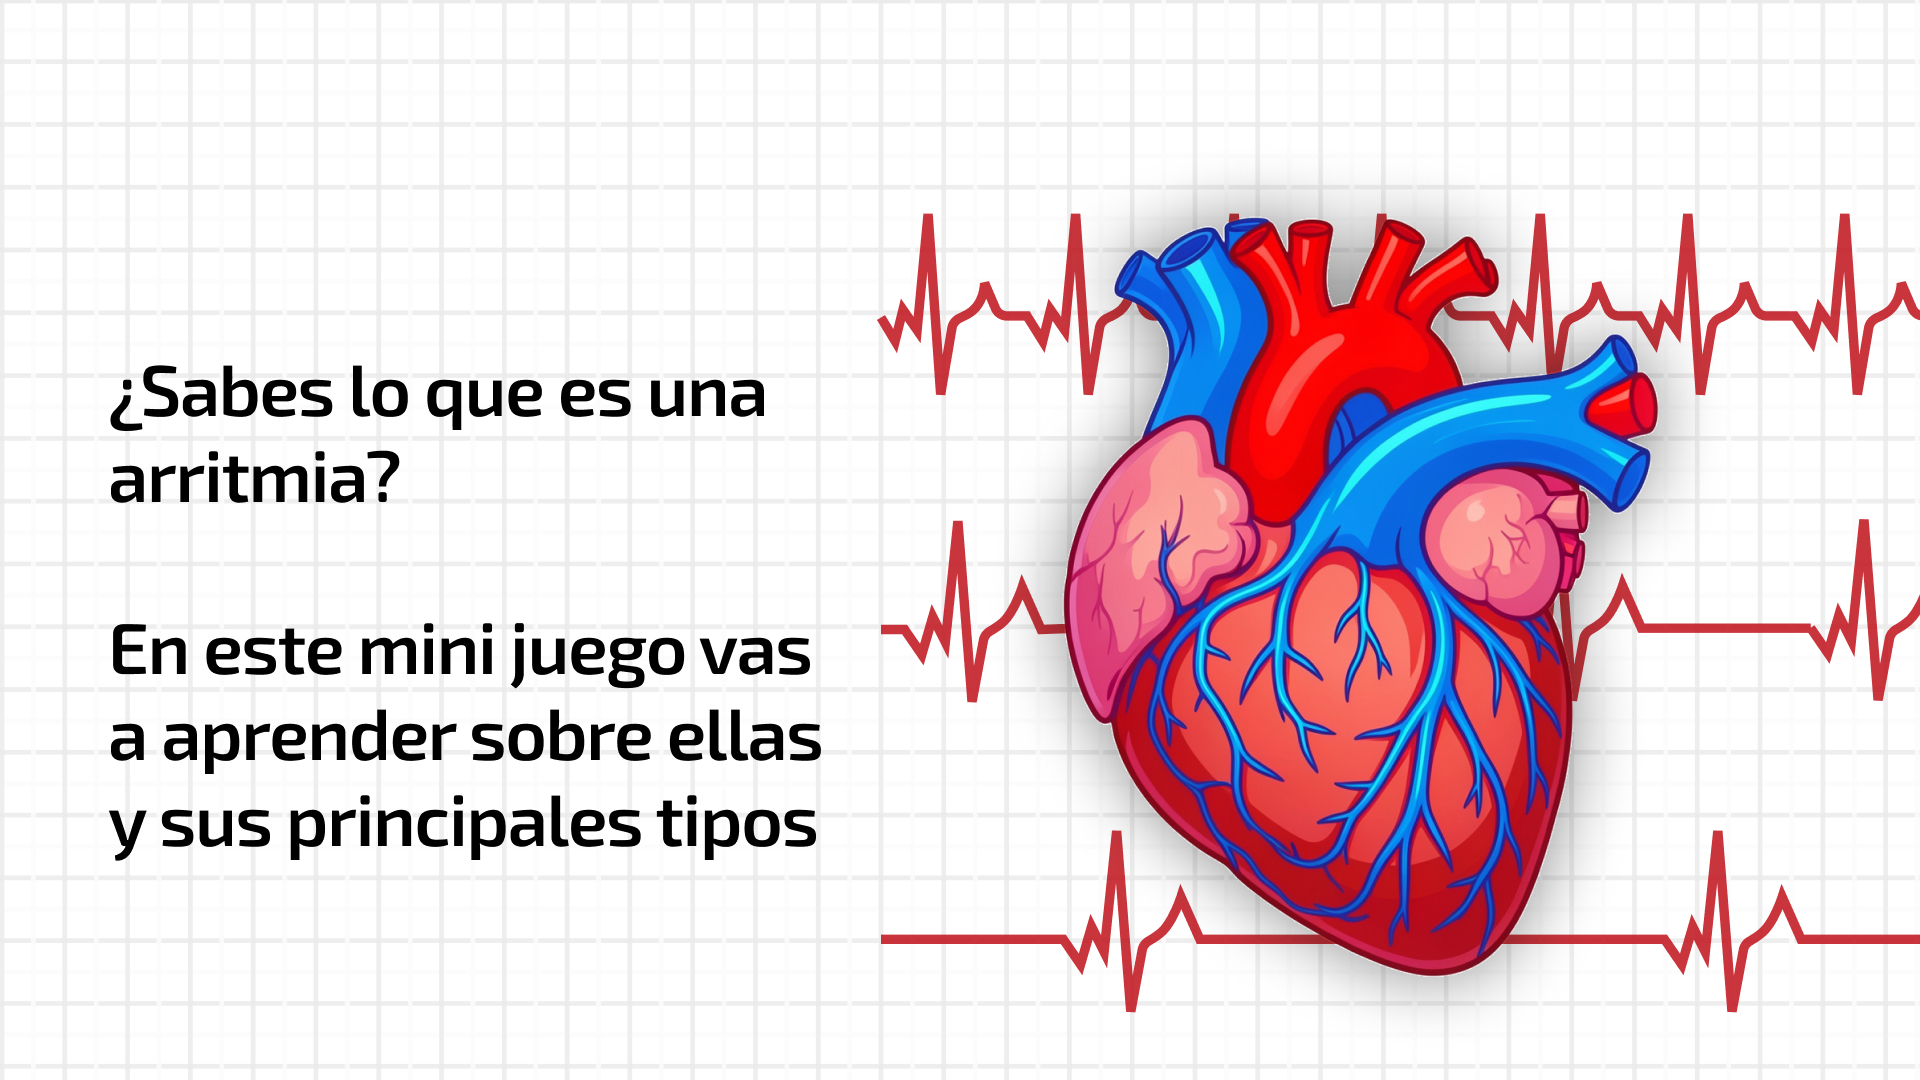
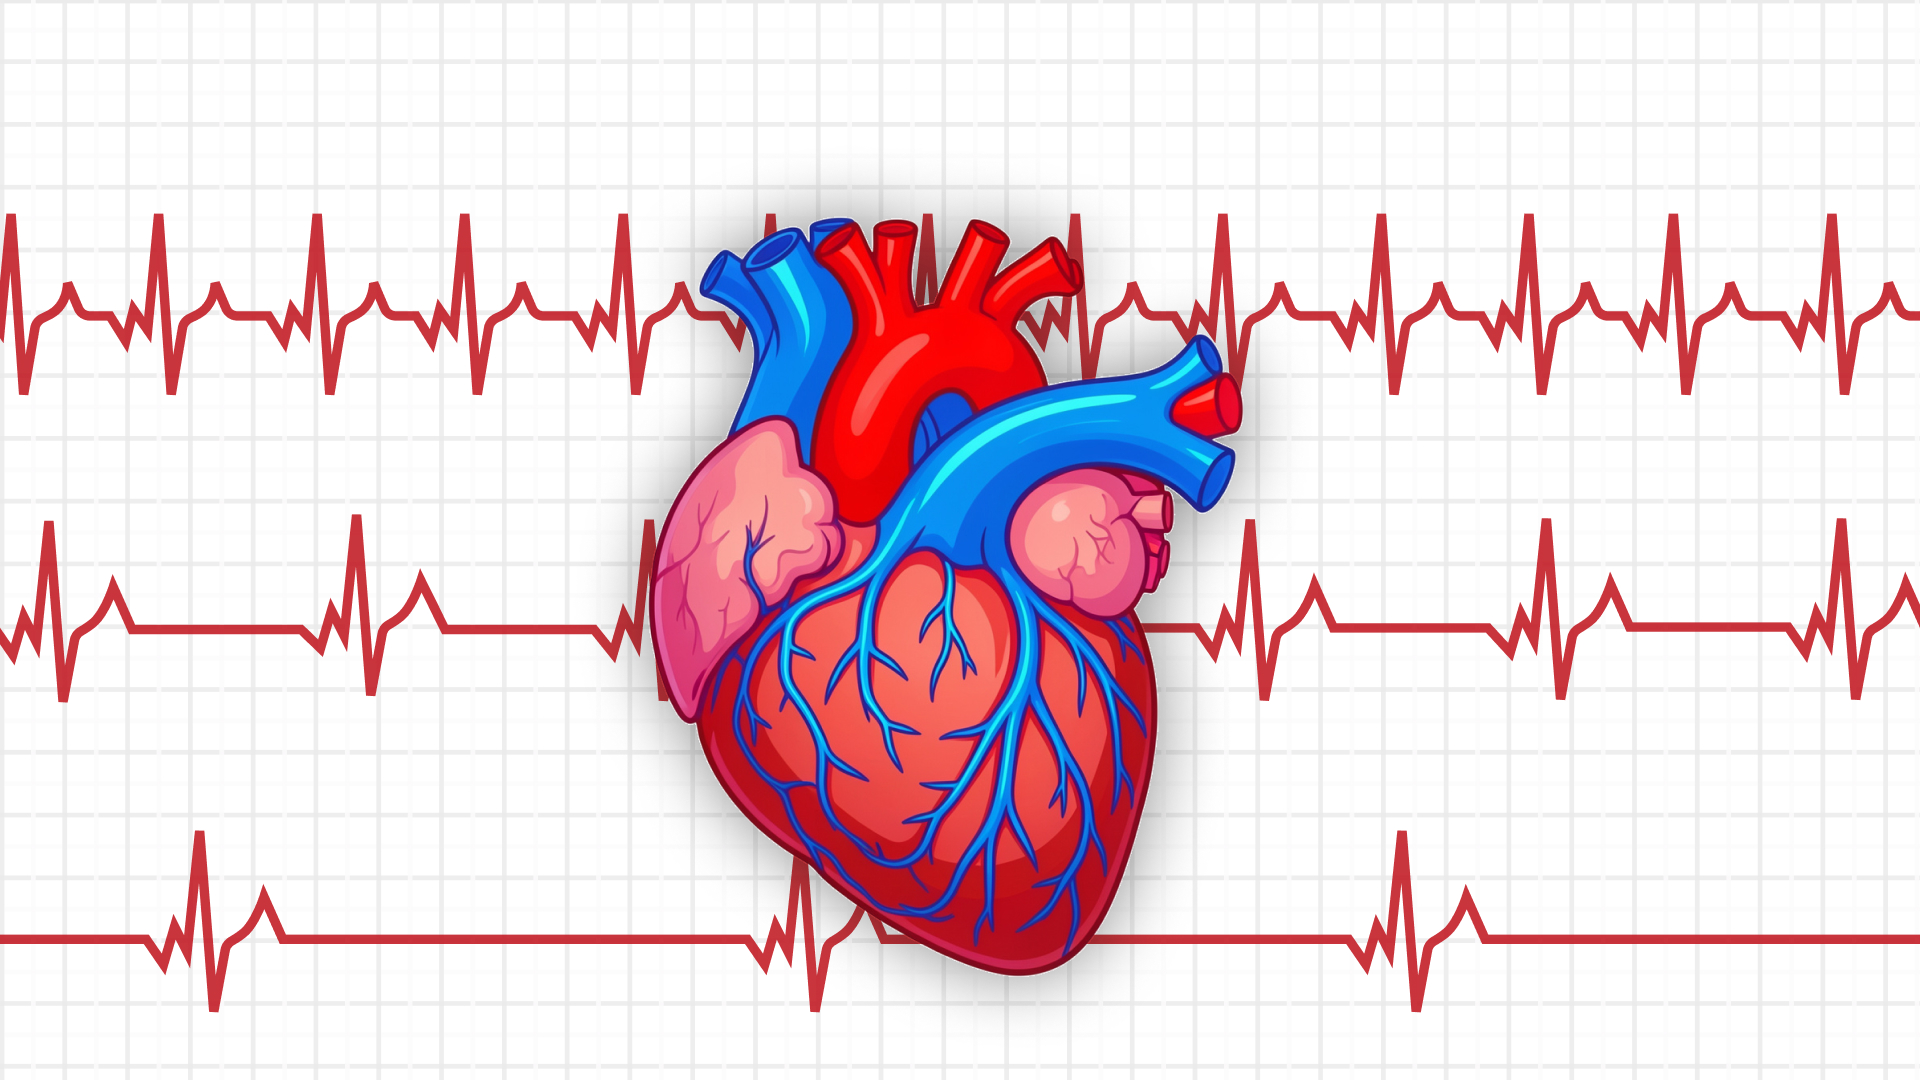
Agregue el script ese de los sprites

diff --git a/Corazon/Assets/Editor/MakeSprite.cs b/Corazon/Assets/Editor/MakeSprite.cs
@@ -1,0 +1,21 @@
+using UnityEditor;
+using UnityEngine;
+
+public class SpriteSingleModeImporter : AssetPostprocessor
+{
+    void OnPreprocessTexture()
+    {
+        // Solo aplicar a texturas dentro de tu carpeta de sprites
+        if (!assetPath.Contains("Assets/IMG_Tuto/")) // cambia esto a tu carpeta
+            return;
+
+        TextureImporter textureImporter = (TextureImporter)assetImporter;
+
+        if (textureImporter.importSettingsMissing || textureImporter.textureType != TextureImporterType.Sprite)
+        {
+            textureImporter.textureType = TextureImporterType.Sprite;
+            textureImporter.spriteImportMode = SpriteImportMode.Single;
+            textureImporter.alphaIsTransparency = true;
+        }
+    }
+}
